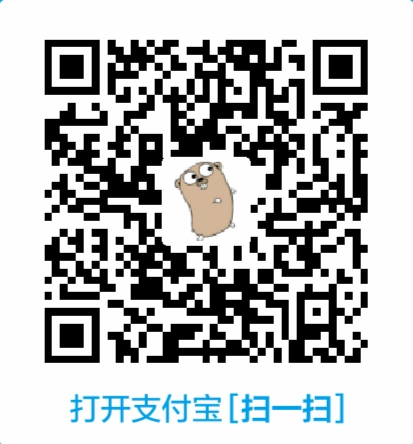
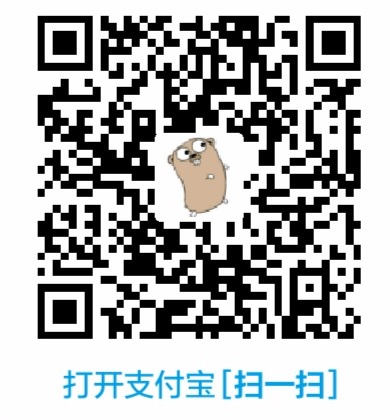
update pic

diff --git a/_layouts/post.html b/_layouts/post.html
@@ -10,8 +10,9 @@ layout: default
   <p>
     <em>如果您觉得文章对您有用能够解决您的问题，欢迎您通过扫码进行打赏支持，谢谢！</em>
   </p>
-  <p>
-    <img src="/public/post/img/pay.jpg" style="width: 500px; margin: auto auto;"/>
+  <p style="display: flex; justify-content: center;">
+    <img src="/public/post/img/alipay.jpg" style="width: 200px; height: 210px;"/>
+    <img src="/public/post/img/wechatpay.jpg" style="width: 200px; height: 210px;"/>
   </p>
 </div>
 
